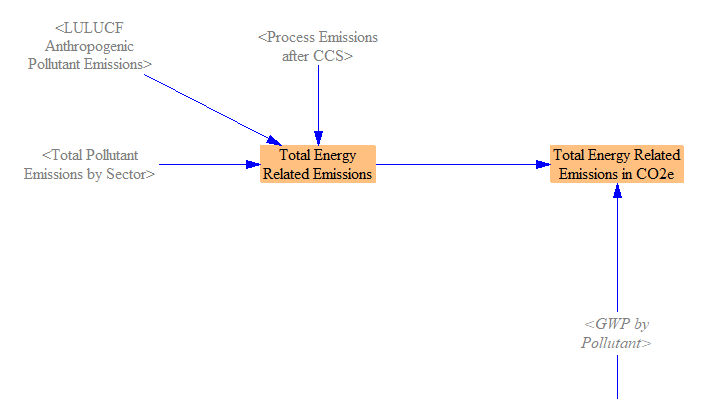
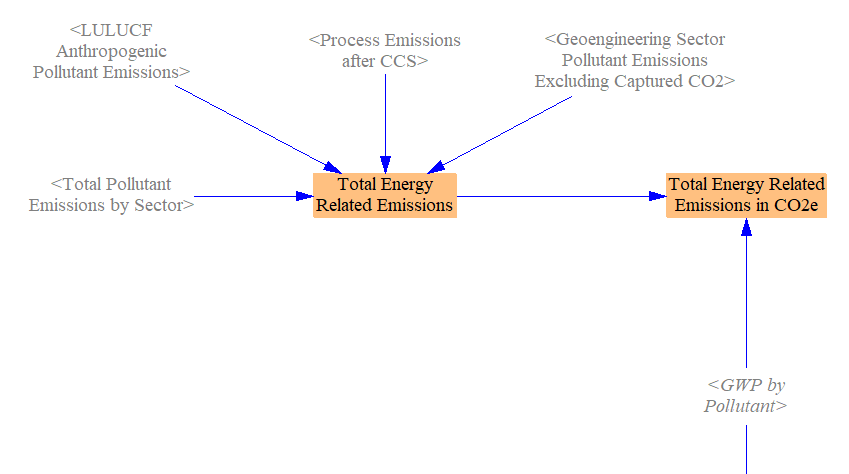
Update docs on public health calcs (#172)

diff --git a/docs/additional-outputs.md b/docs/additional-outputs.md
@@ -37,13 +37,21 @@ Particulates are the primary cause of these negative health outcomes, including 
 
 ### Model Structure
 
-The total emissions of each pollutant in the BAU and policy cases are obtained from the [Cross-Sector Totals](cross-sector-totals.html) sheet, and we take the difference to find the change in pollutant emissions caused by the policy package.  We then multiply the change in emissions of each pollutant by a set of `Health Outcome Incidence per Ton Pollutant` multipliers, from the reduded-form tools discussed above.  Outcomes are quantized (rounded down) to the nearest whole number, such as 1 death or 1 lost workday.
+The total emissions of each pollutant in the BAU and policy cases are obtained from the [Cross-Sector Totals](cross-sector-totals.html) sheet, and we take the difference to find the change in pollutant emissions caused by the policy package.  (For the small number of EPS models configured to include emissions associated with imported electricity in the in-region emissions total, we exclude these emissions from the public health calculations, as we are only tracking health incidents caused by in-region emissions.)   We then multiply the change in emissions of each pollutant by a set of `Health Outcome Incidence per Ton Pollutant` multipliers, from the reduded-form tools discussed above.  Outcomes are quantized (rounded down) to the nearest whole number, such as 1 death or 1 lost workday.
 
 ![public health benefits in the EPS](additional-outputs-PublicHealthBenefits.png)
 
-In some cases, it is useful to be able to see public health benefits in currency units - e.g. for comparison with other costs or savings.  The EPS monetizes avoided premature mortality using a Value of a Statistical Life (VSL) figure, taken in as input data.  Only premature mortality, not other health outcomes, are monetized.  (Premature mortality often represents on the order of 97% of monetized benefits, due to the high value assigned to incidents of premature mortality and far smaller value assigned to other health impacts.)
+In some cases, it is useful to be able to see public health benefits in currency units - e.g. for comparison with other costs or savings.  The EPS monetizes avoided premature mortality using a Value of a Statistical Life (VSL) figure, taken in as input data.  Only premature mortality, not other health outcomes, are monetized.  (Premature mortality often represents on the order of 97% of monetized benefits, due to the high value assigned to incidents of premature mortality and far smaller values assigned to other health impacts.)
 
 ![monetized avoided premature mortality](additional-outputs-MonetizedBenefits.png)
+
+Additionally, the EPS provides an estimated demographic breakdown of premature mortality incidents, where input data are available.  We take in input data from `FoHObDT Fraction of Health Outcomes by Demographic Trait` and multiply by the number of avoided premature deaths to allocate them to specific demographic traits.  For the U.S. model, the relevant traits are sex, race, and Hispanic or Latino status.  The main complexity of this process occurs not within Vensium but within the Excel file for variable `FoHObDT Fraction of Health Outcomes by Demographic Trait` (which draws from results from air quality and public health models).  The sources and methods are carefully documented and explained within that file - simply [download the model](download.html) and review the file for more details.
+
+![avoided premature mortality by demographic trait](additional-outputs-AvoidedDeathsDemographics.png)
+
+So that we can display demographic mortality results as percentage changes (which is helpful for making comparisons between demographic groups), we calculate the number of deaths by demographic trait (in the policy case) by subtracting avoided deaths from BAU deaths, and we compare policy case deaths to BAU deaths by demographic trait to find percent changes.
+
+![percent change in deaths](additional-outputs-PercCngDeaths.png)
 
 ## Avoided Climate Damages
 
@@ -59,9 +67,9 @@ Finally, we sum the changes in monetized public health impacts (from particulate
 
 ## Energy-Related Emissions
 
-Some users might want to know the amount of emissions from the production of energy (in any form, such as heat, electricity, light, or force).  All emissions in the Energy Policy Simulator (EPS) are "energy-related" except industrial sector process emissions and anthropogenic LULUCF emissions.  We include the effects of carbon sequestration, so sequestered CO<sub>2</sub> is removed from the total emissions reported here.
+Some users might want to know the amount of emissions from the production of energy (in any form, such as heat, electricity, light, or force).  All emissions in the Energy Policy Simulator (EPS) are "energy-related" except industrial sector process emissions and anthropogenic LULUCF emissions.  We include the effects of carbon sequestration conducted by the electricity and industry sectors, which effectively reduces these sectors' net CO<sub>2</sub> emissions, so the total energy-related emissions reported here do not include CO<sub>2</sub> sequestered by these sectors.  In contrast, for the geoengineering sector, we do not subtract captured CO<sub>2</sub> (i.e., from direct air capture; DAC) from total energy-related emissions.  (We only include emissions from energy used to power geoengineering processes.)  In the geoengineering sector, the CO<sub>2</sub> removal is the product/purpose and these negative emissions are not considered *energy-related*.
 
-We calculate energy-related emissions for both the BAU and policy cases.  From "Total Pollutant Emissions," we subtract anthropogenic LULUCF emissions and Industry sector process emissions.  We then convert this to CO<sub>2</sub>e using the user-specified GWP factor.  A screenshot of the structure for the policy case is shown below:
+We calculate energy-related emissions for both the BAU and policy cases.  From "Total Pollutant Emissions," we subtract anthropogenic LULUCF emissions and Industry sector process emissions.  For geoengineering, we take the total emissions excluding captured CO<sub>2</sub>.  We then convert this to CO<sub>2</sub>e using the user-specified GWP factor.  A screenshot of the structure for the policy case is shown below:
 
 ![energy-related emissions excluding leakage](additional-outputs-EnergyRelatedEmis.png)
 

diff --git a/docs/index.md b/docs/index.md
@@ -59,7 +59,7 @@ Links to doc pages are followed by a number indicating the [version](version-his
   * [Input-Output Model](io-model.html) - 3.0.0
   * [Macroeconomic Feedbacks](macro-feedbacks.html) - 3.0.0
   * [Cost Outputs](cost-outputs.html) - 3.0.0
-  * [Public Health and Additional Outputs](additional-outputs.html) - 3.0.0
+  * [Public Health and Additional Outputs](additional-outputs.html) - 3.3.0
   * [Web Application Support Variables](web-app-support.html) - 3.0.0
   * [Debugging Assistance](debugging-assistance.html) - 3.0.0
 * [Automated Analysis with Python Scripts](automated-analysis.html) - 3.0.0
@@ -76,7 +76,7 @@ Links to doc pages are followed by a number indicating the [version](version-his
 * [Acknowledgement of Contributors and Reviewers](acknowledgement.html) - 3.0.0
 * [Contact Us](contact.html) - 3.0.0
 * [Software License and Image Credits](software-license.html) - 3.0.0
-* [Version History](version-history.html) - 3.2.0
+* [Version History](version-history.html) - 3.3.0
   * [Archived Model Releases](archived-releases.html) - 3.0.0
 
 ## Deprecated Documentation
